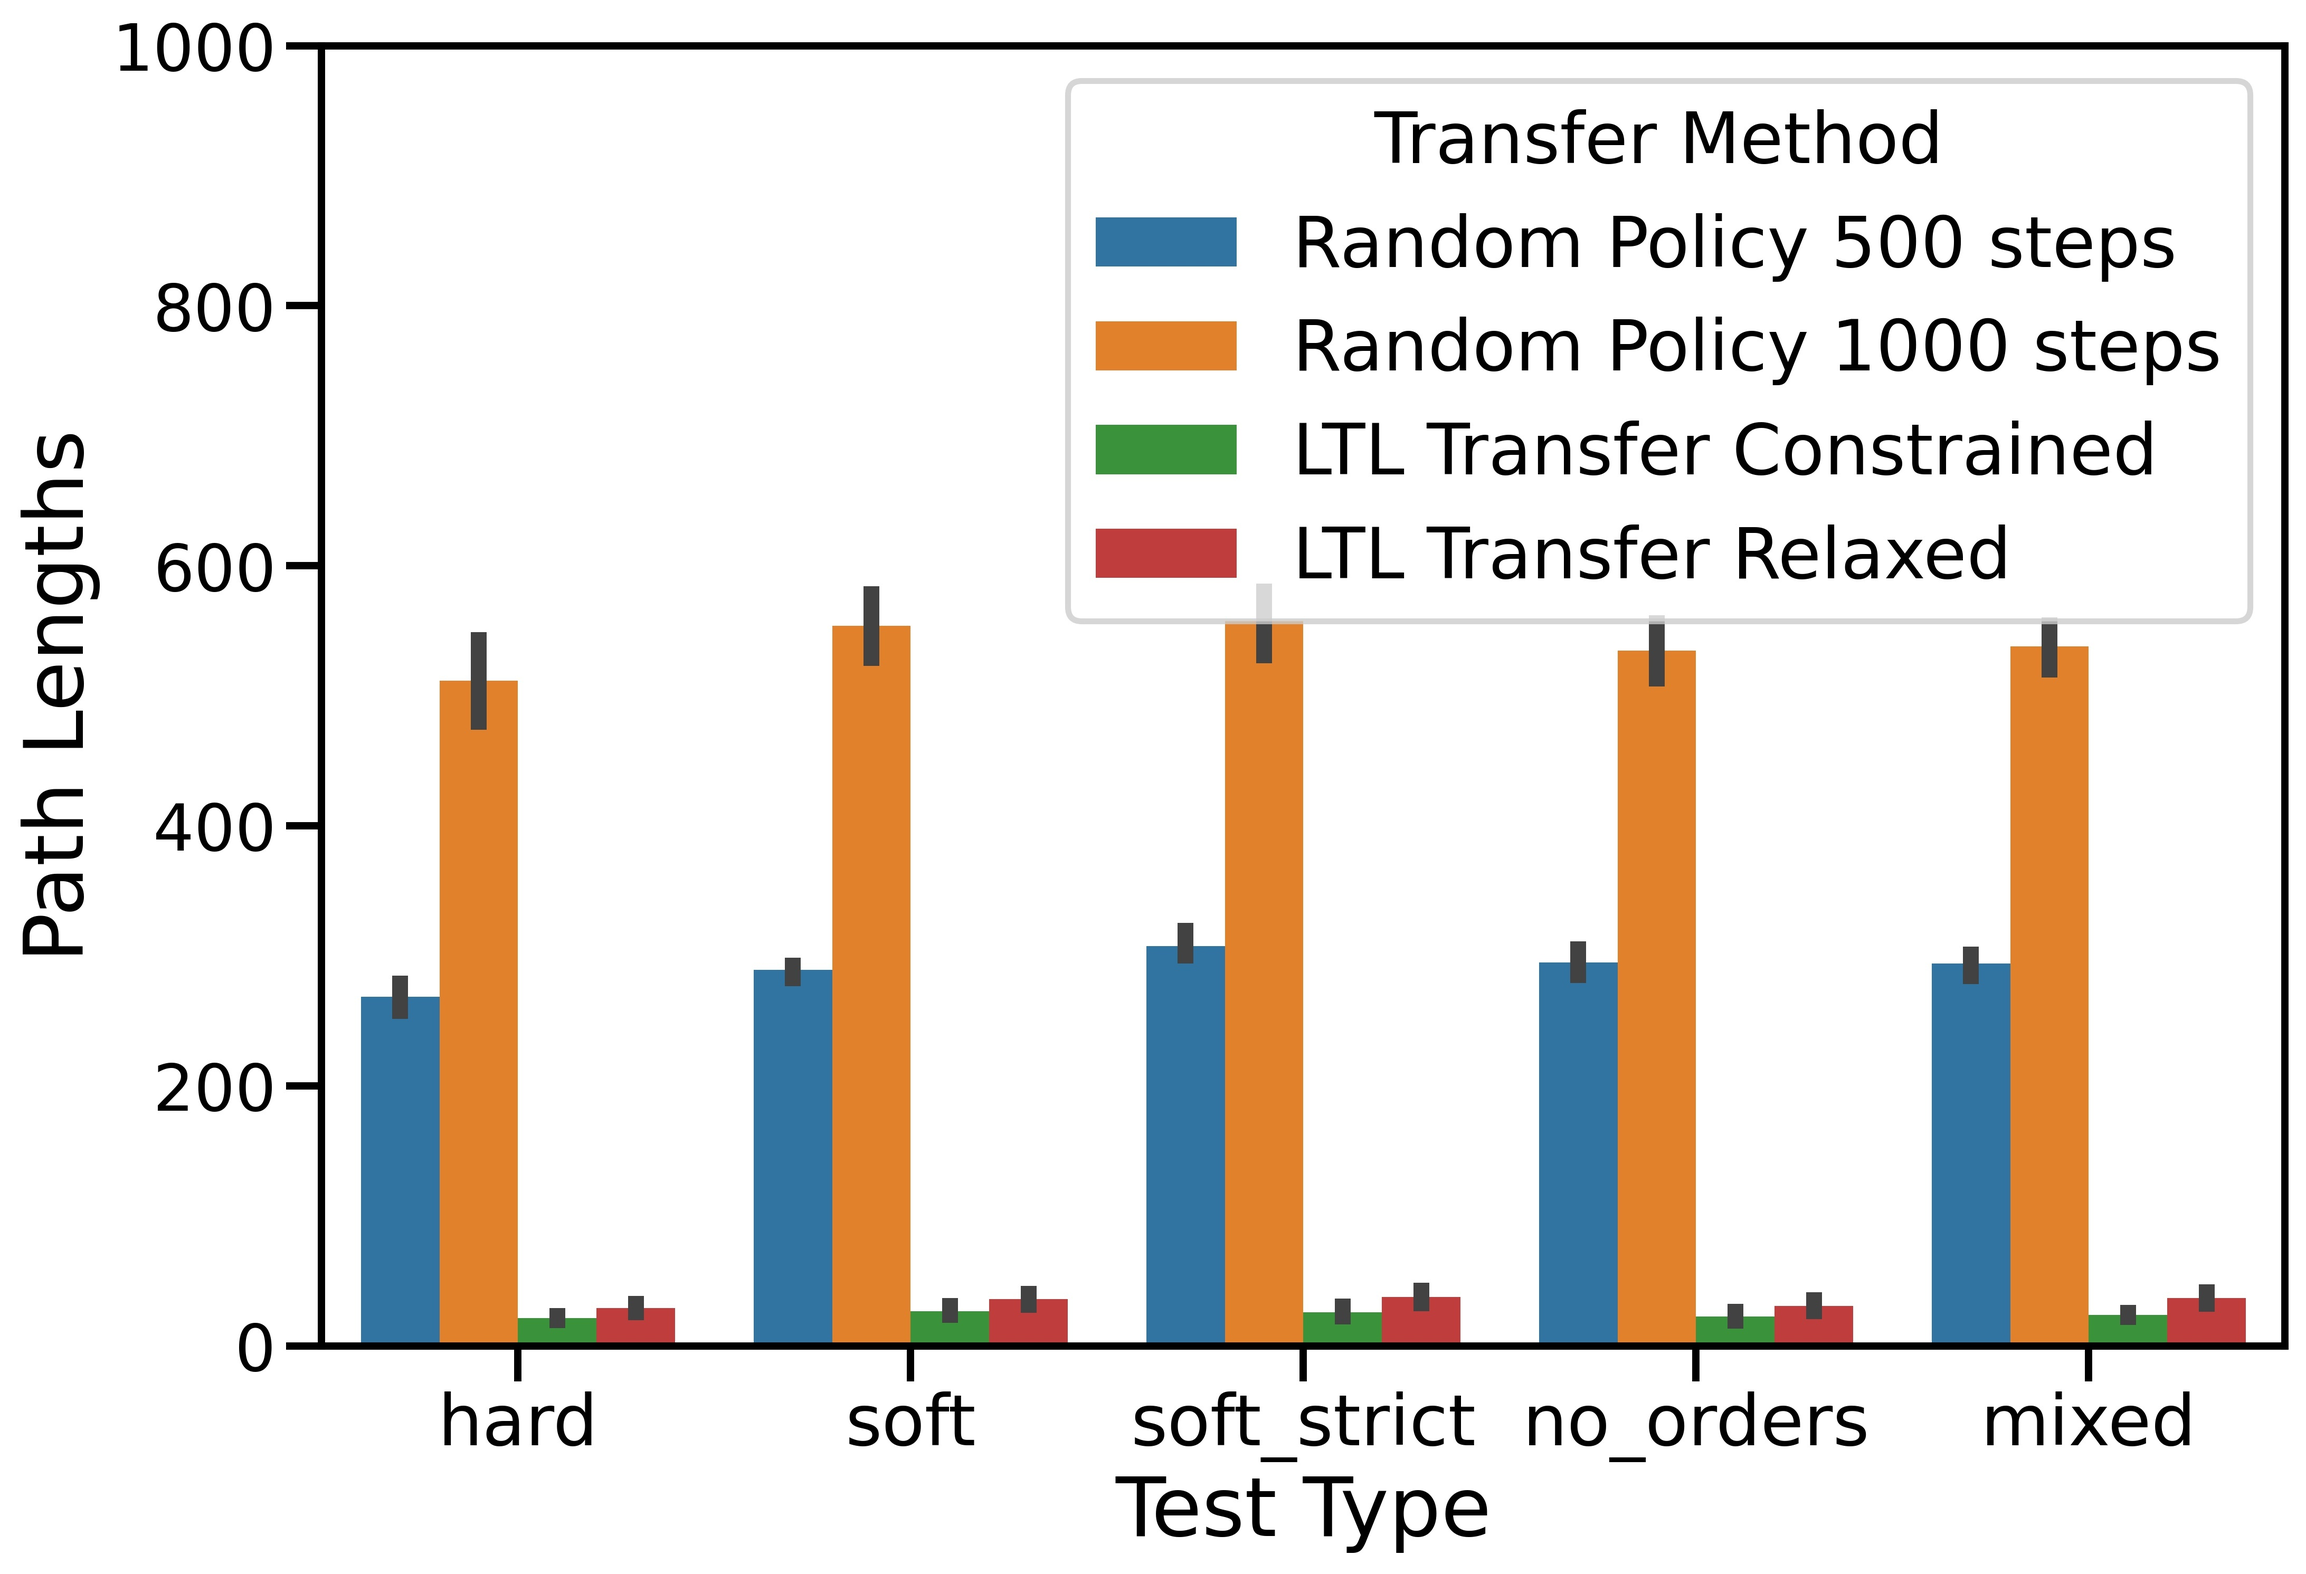
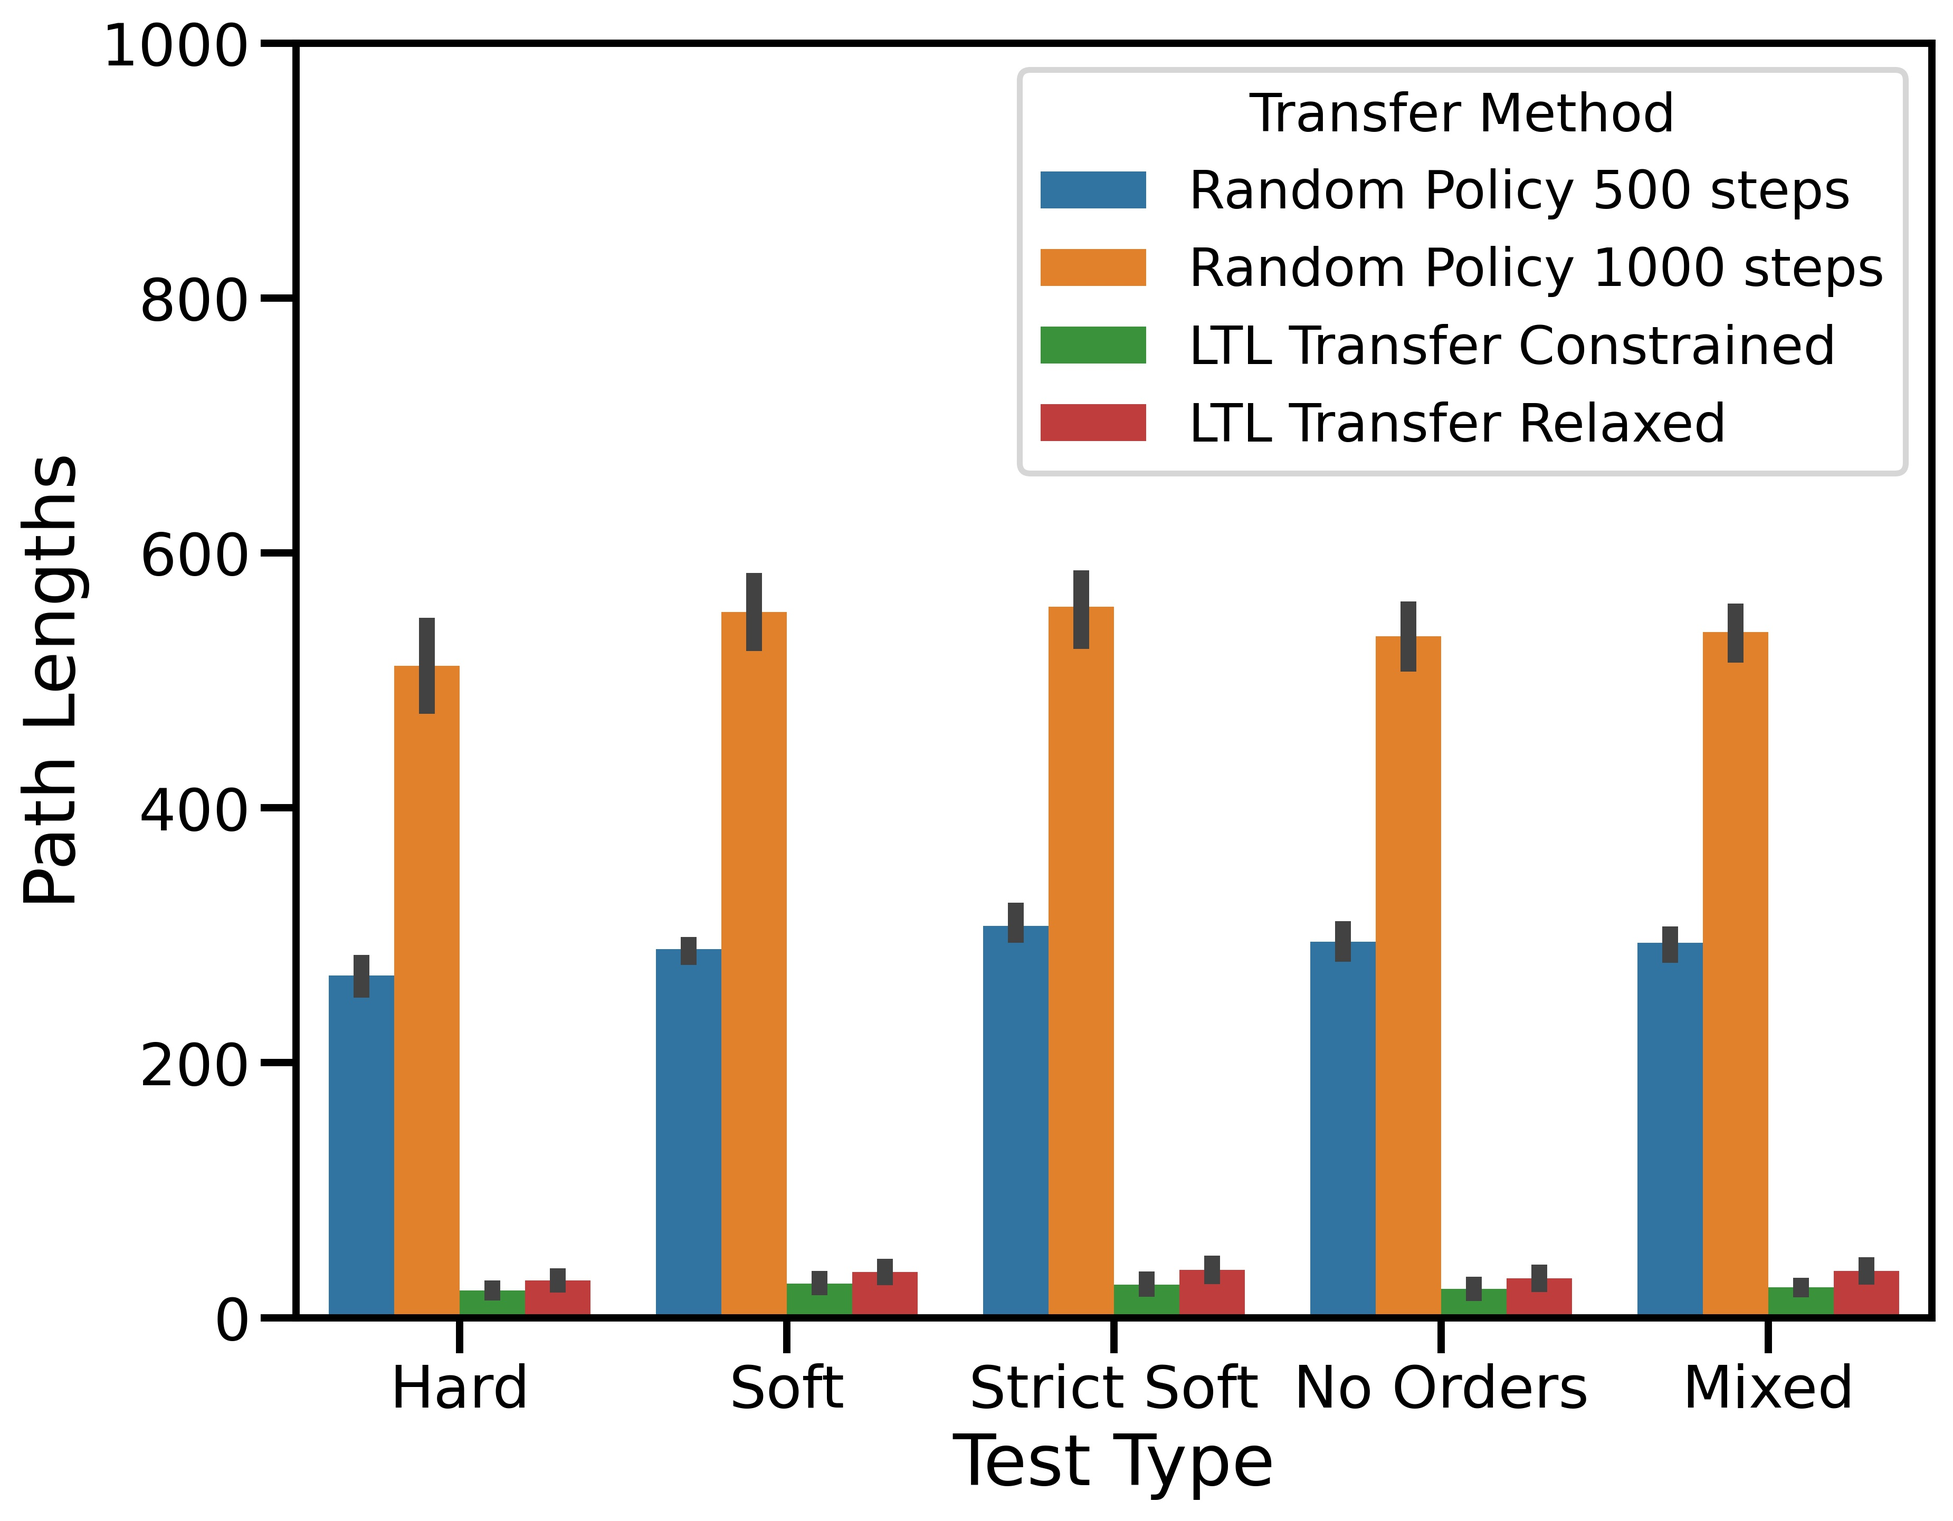
updating dev-ankit branch with unpushed code

Changed region(s): [[0.0, 0.0, 0.9943, 0.999], [0.839, 0.5931, 0.87, 0.6243]]

diff --git a/src/random_results_analyzer.py b/src/random_results_analyzer.py
@@ -27,7 +27,20 @@ typ2string = {'hard':'Hard','soft':'Soft','no_orders':'No Orders','mixed': 'Mixe
 ltl2action_files = [f'results_Transfer_test_{typ}_100.json' for typ in ['hard','soft','soft-strict','no-orders','mixed']]
 typ2string2 = {'hard':'Hard','soft':'Soft','no-orders':'No Orders','mixed': 'Mixed', 'soft-strict': 'Strict Soft'}
 
-def create_data_table(random_results, mixed_results, ltl2action_results = None):
+
+def get_lpopl_data2(test_types = None):
+    if test_types is None:
+        test_types = ['hard','soft','soft_strict','no_orders','mixed']
+    data = {}
+    data[('hard')] = {'success_rate': 0.05 , 'failure_rate': 0}
+    data[('soft')] = {'success_rate': 0.06 , 'failure_rate': 0}
+    data[('soft_strict')] = {'success_rate': 0.08 , 'failure_rate': 0}
+    data[('no_orders')] = {'success_rate': 0.27 , 'failure_rate': 0}
+    data[('mixed')] = {'success_rate': 0.12 , 'failure_rate': 0}
+    data = dict((k, data[k]) for k in test_types)
+    return data
+
+def create_data_table(random_results, mixed_results, ltl2action_results = None, lpopl_results = None):
     #random_results = get_random_results()
     #mixed_results = get_mixed_50_results()
     
@@ -66,17 +79,33 @@ def create_data_table(random_results, mixed_results, ltl2action_results = None):
             entry['Specification Violation Rate'] = k['num_spec_fails']/(k['num_successes'] + k['num_incompletes'] + k['num_spec_fails'])
             data[i] = entry
             i = i+1
+    if lpopl_results is not None:
+        for k in lpopl_results:
+            entry = {}
+            entry['Transfer Method'] = 'LPOPL'
+            entry['Test Type'] = typ2string[k]
+            entry['Map ID'] = 0
+            entry['Success Rate'] = lpopl_results[k]['success_rate']
+            entry['Path Lengths'] = 0
+            entry['Specification Violation Rate'] = 0
+            data[i] = entry
+            i=i+1
     
     data = pd.DataFrame.from_dict(data, orient = 'index')
     return data        
 
 def plot_random_success_rate():
-    random_results = get_random_results()
+    random_results = get_random_results(num_steps = [500])
     mixed_results = get_mixed_50_results(map_ids = [0])
-    data = create_data_table(random_results, mixed_results)
+    ltl2action_results = get_ltl2action_results()
+    lpopl_results = get_lpopl_data2()
+    data = create_data_table(random_results, mixed_results, ltl2action_results, lpopl_results)
+    data = data.loc[data['Transfer Method']!= 'LTL Transfer Constrained']
     with sns.plotting_context('poster', rc=rc):
-        plt.figure(figsize = [12,8])
-        sns.barplot(data = data, x = 'Test Type', y = 'Success Rate', hue = 'Transfer Method')
+        plt.figure(figsize = [10,8])
+        hue_order = ['LTL Transfer Relaxed','LTL2Action','LPOPL','Random Policy 500 steps']
+        g = sns.barplot(data = data, x = 'Test Type', y = 'Success Rate', hue = 'Transfer Method', hue_order = hue_order, ci=None)
+        g.legend_.remove()
     plt.savefig('figures/random_success_rate.jpg',dpi=400, bbox_inches='tight')
 
 def plot_path_lengths():
@@ -84,26 +113,34 @@ def plot_path_lengths():
     mixed_results = get_mixed_50_results()
     data = create_data_table(random_results, mixed_results)
     with sns.plotting_context('poster', rc=rc):
-        plt.figure(figsize = [12,8])
+        plt.figure(figsize = [10,8])
         sns.barplot(data = data, x = 'Test Type', y = 'Path Lengths', hue = 'Transfer Method')
         plt.ylim(0,1000)
     plt.savefig('figures/random_path_lengths.jpg',dpi=400, bbox_inches='tight')
     
 def plot_spec_failure_rate():
-    random_results = get_random_results(test_types = ['hard','mixed'])
+    random_results = get_random_results(num_steps = [500], test_types = ['hard','mixed'])
     mixed_results = get_mixed_50_results(test_types = ['hard','mixed'])
-    data = create_data_table(random_results, mixed_results)
+    ltl2action_data = get_ltl2action_results(test_types = ['hard','mixed'])
+    lpopl_data = get_lpopl_data2(test_types = ['hard','mixed'])
+    
+    data = create_data_table(random_results, mixed_results, ltl2action_data, lpopl_data)
+    data = data.loc[data['Transfer Method']!= 'LTL Transfer Constrained']
     with sns.plotting_context('poster', rc=rc):
-        plt.figure(figsize = [12,8])
-        sns.barplot(data = data, x = 'Test Type', y = 'Specification Violation Rate', hue = 'Transfer Method')
+        plt.figure(figsize = [10,8])
+        hue_order = ['LTL Transfer Relaxed','LTL2Action','LPOPL','Random Policy 500 steps']
+        g = sns.barplot(data = data, x = 'Test Type', y = 'Specification Violation Rate', hue = 'Transfer Method', ci=None, hue_order = hue_order)
+        #g = sns.barplot(data = data, x = 'Test Type', y = 'Success Rate', hue = 'Transfer Method', ci=None)
+        g.legend_.set_title(None)
     plt.savefig('figures/random_failure_rate.jpg',dpi=400, bbox_inches='tight')
 
 
 
 
-def get_ltl2action_results():
+def get_ltl2action_results(test_types = None):
     results = []
-    test_types = ['hard','soft','soft-strict','no-orders','mixed']
+    if test_types is None:
+        test_types = ['hard','soft','soft-strict','no-orders','mixed']
     ltl2action_files = [f'results_Transfer_test_{typ}_100.json' for typ in test_types]
     files = [os.path.join('..','LTL2ActionResults',f) for f in ltl2action_files]
     for (f,typ) in zip(files, test_types):
@@ -117,8 +154,12 @@ def get_ltl2action_results():
     
 
 if __name__ == '__main__':
-    #data = create_data_table()
-    #plot_random_success_rate()
-    #plot_path_lengths()
-    #plot_spec_failure_rate()
+    random_results = get_random_results()
+    mixed_results = get_mixed_50_results()
+    ltl2action_results = get_ltl2action_results()
+    lpopl_results = get_lpopl_data2()
+    data = create_data_table(random_results, mixed_results, ltl2action_results, lpopl_results)
+    plot_random_success_rate()
+    plot_path_lengths()
+    plot_spec_failure_rate()
     a=1

diff --git a/src/result_analyzer.py b/src/result_analyzer.py
@@ -16,7 +16,7 @@ from zero_shot_transfer import *
 
 RESULT_DPATH = '../results_test'
 RANDOM_RESULT_DPATH = '../random_results'
-rc = {'axes.labelsize': 28, 'axes.titlesize': 32, 'legend.fontsize': 24, 'xtick.labelsize': 24, 'ytick.labelsize': 22}
+rc = {'axes.labelsize': 24, 'axes.titlesize': 32, 'legend.fontsize': 18, 'legend.title_fontsize': 18, 'xtick.labelsize': 20, 'ytick.labelsize': 20}
 
 
 class Record:
@@ -336,7 +336,7 @@ def plot_fig3A():
         # sns.lineplot(data=data, x='Size', y='Success Rate', hue='Transfer Method', style='Transfer Method', dashes=False, markers=True, hue_order=matchers)
         
         # Create the line plots
-        sns.lineplot(data=data, x='Size', y='Success Rate', hue='Test Set', style='Test Set', dashes=False, markers=True, hue_order=test_types)
+        sns.lineplot(data=data, x='Size', y='Success Rate', hue='Test Set', style='Test Set', dashes=False, markers=True, hue_order=test_types, ci=None)
         
         # Create the error bars
         for m in test_types:
@@ -355,7 +355,7 @@ def plot_fig3A():
         plt.xlim(0, 55)
         plt.xlabel('Training Set Size')
         plt.legend(loc='upper right')
-        plt.savefig('figures/fig_3a.png', dpi=400, bbox_inches='tight')
+        plt.savefig('figures/fig_3a.jpg', dpi=400, bbox_inches='tight')
 
 
 def plot_fig3B():
@@ -363,7 +363,7 @@ def plot_fig3B():
     train_types = ['mixed']
     test_types = ['hard', 'soft', 'soft_strict', 'no_orders', 'mixed']
     train_sizes = [5, 10, 15, 20, 30, 40, 50]
-    map_ids = [0,1,5,6]
+    map_ids = [0,]
     CI = 0.95
     data = create_data_table(get_results(train_types, test_types, train_sizes, map_ids))
     
@@ -408,7 +408,7 @@ def plot_fig3B():
         plt.xlim(0, 55)
         plt.xlabel('Training Set Size')
         plt.legend(loc='lower right')
-        plt.savefig('figures/fig_3b.png', dpi=400, bbox_inches='tight')
+        plt.savefig('figures/fig_3b.jpg', dpi=400, bbox_inches='tight')
 
 
 def fig_4A():
